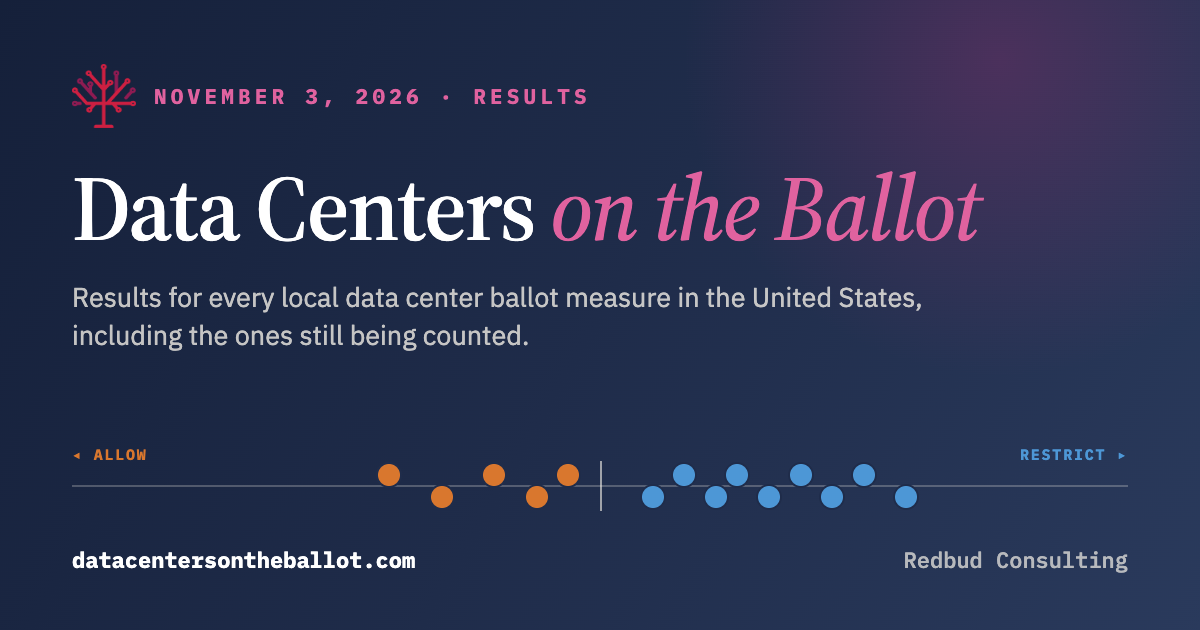
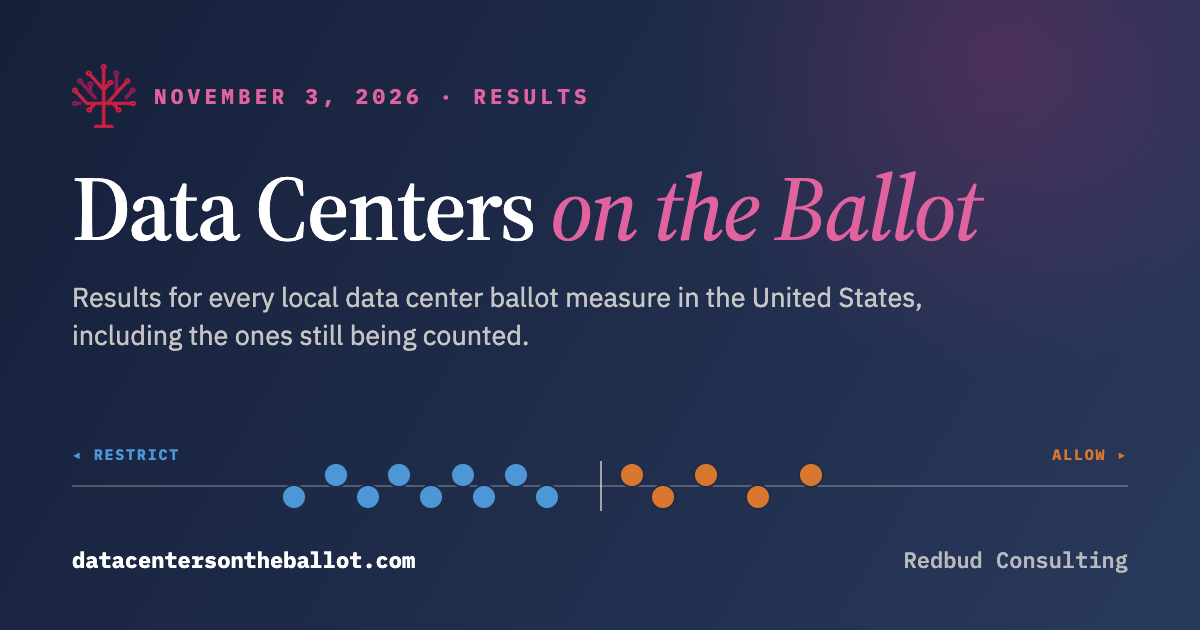
Social card: Restrict on the left, Allow on the right
The share image had the strip backwards (Allow left, Restrict right),
against the dashboard rule that bars always put Restrict on the left.
Mirrored the labels and the illustrative dots in docs/og-card.html and
re-rendered.

The card ships as a new file, assets/og-card-v2.png, and og:image points
at it, because platforms cache preview images by URL. The old
og-card.png gets the same image so posts that already reference it pick
up the fix if they re-fetch.

Changed region(s): [[0.2158, 0.7238, 0.7708, 0.8143], [0.8325, 0.6937, 0.925, 0.754], [0.0617, 0.6937, 0.1542, 0.754]]

diff --git a/docs/og-card.html b/docs/og-card.html
@@ -1,8 +1,9 @@
 <!doctype html>
-<!-- The social card (site/assets/og-card.png, 1200 x 630). To re-render after editing:
+<!-- The social card (site/assets/og-card-v2.png, 1200 x 630). To re-render after editing:
      "/Applications/Google Chrome.app/Contents/MacOS/Google Chrome" --headless=new --hide-scrollbars \
-       --window-size=1200,630 --virtual-time-budget=8000 --screenshot=site/assets/og-card.png docs/og-card.html
-     Platforms cache the image by URL, so a changed card needs a new file name (and the og:image tag updated). -->
+       --window-size=1200,630 --virtual-time-budget=8000 --screenshot=site/assets/og-card-v2.png docs/og-card.html
+     Platforms cache the image by URL, so a changed card needs a new file name (and the og:image tag updated).
+     v2 (Nov 5) put Restrict on the left; og-card.png, the URL shared before then, holds the same image. -->
 <html lang="en">
 <head>
 <meta charset="utf-8">
@@ -21,7 +22,7 @@
   .strip .line { position: absolute; left: 0; right: 0; top: 40px; height: 2px; background: rgba(245,241,232,0.25); }
   .strip .mid { position: absolute; left: 50%; top: 16px; width: 2px; height: 50px; background: rgba(245,241,232,0.6); }
   .strip .cap { position: absolute; top: 0; font-family: 'IBM Plex Mono', monospace; font-weight: 700; font-size: 15px; letter-spacing: 0.12em; }
-  .strip .cap.a { left: 0; color: #d9772e; } .strip .cap.r { right: 0; color: #4d97d6; }
+  .strip .cap.r { left: 0; color: #4d97d6; } .strip .cap.a { right: 0; color: #d9772e; }
   .strip i { position: absolute; width: 22px; height: 22px; border-radius: 50%; transform: translate(-50%, -50%); border: 2px solid #1f2c4a; }
   .foot { display: flex; justify-content: space-between; align-items: baseline; margin-top: 30px; font-family: 'IBM Plex Mono', monospace; font-size: 22px; }
   .foot b { color: #fff; font-weight: 700; } .foot span { color: rgba(245,241,232,0.7); font-weight: 500; }
@@ -32,14 +33,15 @@
   <div class="kick"><img src="../site/assets/redbud-logo-mark.png" alt="">November 3, 2026 · Results</div>
   <h1>Data Centers <em>on the Ballot</em></h1>
   <p>Results for every local data center ballot measure in the United States, including the ones still being counted.</p>
-  <div class="strip" id="strip"><div class="line"></div><div class="mid"></div><span class="cap a">◂ ALLOW</span><span class="cap r">RESTRICT ▸</span></div>
+  <div class="strip" id="strip"><div class="line"></div><div class="mid"></div><span class="cap r">◂ RESTRICT</span><span class="cap a">ALLOW ▸</span></div>
   <div class="foot"><b>datacentersontheballot.com</b><span>Redbud Consulting</span></div>
 </div>
 <script>
-  // Illustrative dots only (not results): placed by share, blue right of center, orange left.
-  const xs = [[30, 1], [35, 0], [40, 1], [44, 0], [47, 1], [55, 0], [58, 1], [61, 0], [63, 1], [66, 0], [69, 1], [72, 0], [75, 1], [79, 0]];
+  // Illustrative dots only (not results): placed by share. Restrict (blue) left of center,
+  // allow (orange) right, matching the dashboard, whose bars always put Restrict on the left.
+  const xs = [[21, 0], [25, 1], [28, 0], [31, 1], [34, 0], [37, 1], [39, 0], [42, 1], [45, 0], [53, 1], [56, 0], [60, 1], [65, 0], [70, 1]];
   const s = document.getElementById('strip');
-  xs.forEach(([x, up]) => { const i = document.createElement('i'); i.style.left = x + '%'; i.style.top = (up ? 30 : 52) + 'px'; i.style.background = x < 50 ? '#d9772e' : '#4d97d6'; s.appendChild(i); });
+  xs.forEach(([x, up]) => { const i = document.createElement('i'); i.style.left = x + '%'; i.style.top = (up ? 30 : 52) + 'px'; i.style.background = x < 50 ? '#4d97d6' : '#d9772e'; s.appendChild(i); });
 </script>
 </body>
 </html>

diff --git a/site/index.html b/site/index.html
@@ -12,7 +12,7 @@
 <meta property="og:title" content="Data Centers on the Ballot · 2026 Results">
 <meta property="og:description" content="Results for every local data center ballot measure in the US on November 3, 2026, including the ones still being counted. From Redbud Consulting.">
 <meta property="og:url" content="https://datacentersontheballot.com/">
-<meta property="og:image" content="https://datacentersontheballot.com/assets/og-card.png">
+<meta property="og:image" content="https://datacentersontheballot.com/assets/og-card-v2.png">
 <meta property="og:image:width" content="1200">
 <meta property="og:image:height" content="630">
 <meta property="og:image:alt" content="Data Centers on the Ballot: results for local data center ballot measures on November 3, 2026">

diff --git a/RUNBOOK.md b/RUNBOOK.md
@@ -11,7 +11,7 @@
 - [ ] `make reset` so `results.json` has no simulated data, then `make build`, commit, push.
 - [ ] Preview the night on the live site: open https://datacentersontheballot.com/?preview&sim=55 and drag the Night progress slider from 0 to 100. Open TV mode (https://datacentersontheballot.com/?tv) on whatever screen the war room will use and check it fits.
 - [ ] Run `Rscript R/fetch_results.R` once against the live pre-election pages. Every source should fail cleanly (no contest yet) rather than crash. Fix anything that throws.
-- [ ] Check the link preview before posting: paste https://datacentersontheballot.com/ into a draft post (or LinkedIn's Post Inspector) and confirm the card reads "November 3, 2026 · Results" (`site/assets/og-card.png`, source `docs/og-card.html`). Platforms cache the card by URL, so a changed card needs a new file name.
+- [ ] Check the link preview before posting: paste https://datacentersontheballot.com/ into a draft post (or LinkedIn's Post Inspector) and confirm the card reads "November 3, 2026 · Results" (`site/assets/og-card-v2.png`, source `docs/og-card.html`; Restrict on the left). Platforms cache the card by URL, so a changed card needs a new file name.
 
 ## Election day
 - 6:00 pm ET: start `Rscript R/watch.R 120` on the Mac (push access, drop folder synced). It is the main loop, not a fallback: only it reads the drop folder (16 Ohio sources) and Clarity (Illinois's six and Downe NJ), and GitHub ran the 5-minute cron just twice between midnight and 1:30 pm ET on Nov 3. The `Update results` workflow stays on as a backup for the other feeds and the sheet; `gh workflow run update-results.yml` starts one by hand.
